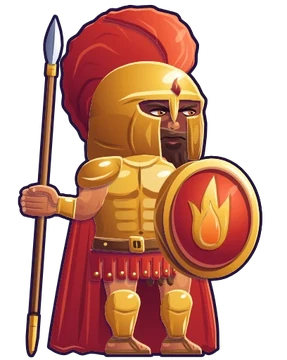
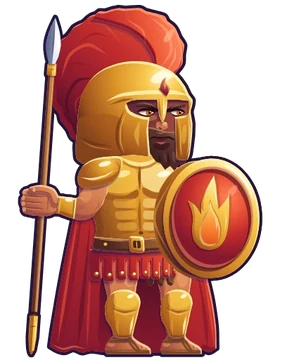
Page de suivi des héros à jour (47 héros, Bérold recentré)
Claude-Session: https://claude.ai/code/session_01StTiAZjvnzYLiVPjaUWZHe

Changed region(s): [[0.1672, 0.0, 0.7247, 0.4889]]

diff --git a/refonte-graphique/ui-moderne/heros/suivi/index.html b/refonte-graphique/ui-moderne/heros/suivi/index.html
@@ -46,11 +46,25 @@ figcaption { font-size: 11px; color: var(--muted); text-transform: uppercase; le
   <p class="note">Dardane, l&#x27;homme-scorpion du désert : capuche de sable à bec, yeux jaunes qui luisent dans l&#x27;ombre, foulard rouge, mantelet déchiqueté bordé de rouge, lance de bronze tenue des deux mains, et sa grande queue de scorpion en anneaux de chitin</p>
 </article>
 <article class="hero ok r-legendary">
+  <header><h3>Rocvar</h3><span class="pill">fait</span></header>
+  <p class="meta">Légendaire · terre</p>
+  <div class="duo"><figure><span class="vide">nouveau</span><figcaption>avant</figcaption></figure>
+  <figure><img src="gif/dragon-terre.gif?v=1795739044" alt="Rocvar animé" loading="lazy"><figcaption>après</figcaption></figure></div>
+  <p class="note">Rocvar, le dragon de la terre (nouveau héros, protecteur) : même famille qu&#x27;Elvyn (même tête de dragon de profil avec un seul œil d&#x27;or placé par visage.py, crinière née du crâne, deux cornes plantées dans la crinière, moustache de dragon, v</p>
+</article>
+<article class="hero ok r-legendary">
   <header><h3>Soyane</h3><span class="pill">fait</span></header>
   <p class="meta">Légendaire · terre</p>
   <div class="duo"><figure><img src="px/myths-10.webp" alt="Soyane pixel art" loading="lazy"><figcaption>avant</figcaption></figure>
   <figure><img src="gif/myths-10.gif?v=1795732681" alt="Soyane animé" loading="lazy"><figcaption>après</figcaption></figure></div>
   <p class="note">Corrigé d&#x27;après le 3e avis du 26/11 (« Rajouter un cache cou comme une ninja ») : 1) un cache-cou de ninja en tissu rouge sombre (mat, différent du haut rouge vif) couvre le nez, la bouche, le menton et tout le cou ; son bord du haut passe </p>
+</article>
+<article class="hero ok r-legendary">
+  <header><h3>Brasyr</h3><span class="pill">fait</span></header>
+  <p class="meta">Légendaire · feu</p>
+  <div class="duo"><figure><span class="vide">nouveau</span><figcaption>avant</figcaption></figure>
+  <figure><img src="gif/dragon-feu.gif?v=1795739051" alt="Brasyr animé" loading="lazy"><figcaption>après</figcaption></figure></div>
+  <p class="note">Repris (avis du chef de projet) : crinière refaite en quelques grandes langues de flamme de tailles différentes, groupées, qui se recourbent vers l&#x27;arrière et vers le haut (plus d&#x27;éventail de pointes égales ni de traits parallèles, reflets </p>
 </article>
 <article class="hero ok r-legendary">
   <header><h3>Kael</h3><span class="pill">fait</span></header>
@@ -94,6 +108,13 @@ figcaption { font-size: 11px; color: var(--muted); text-transform: uppercase; le
   <figure><img src="gif/mages-3.gif?v=1795732703" alt="Orin animé" loading="lazy"><figcaption>après</figcaption></figure></div>
   <p class="note">Orin, le tengu des montagnes : visage rouge au long nez, sourcils blancs en V, crinière blanche couchée en arrière, petit bonnet noir, deux ailes de corbeau repliées comme un manteau, veste ivoire et collier d&#x27;or, ceinture de soie rouge, ha</p>
 </article>
+<article class="hero ok r-legendary">
+  <header><h3>Venthys</h3><span class="pill">fait</span></header>
+  <p class="meta">Légendaire · vent</p>
+  <div class="duo"><figure><span class="vide">nouveau</span><figcaption>avant</figcaption></figure>
+  <figure><img src="gif/dragon-vent.gif?v=1795739075" alt="Venthys animé" loading="lazy"><figcaption>après</figcaption></figure></div>
+  <p class="note">Venthys, le dragon du vent (nom provisoire) : même famille qu&#x27;Elvyn (même tête de dragon vue de profil avec un seul œil, vert d&#x27;or, même crinière qui naît du crâne, ventre et gorge en écailles ivoire, mains et pieds griffus, même échelle), </p>
+</article>
 <article class="hero ok r-epic">
   <header><h3>Malgrave</h3><span class="pill">fait</span></header>
   <p class="meta">Épique · terre</p>
@@ -109,25 +130,11 @@ figcaption { font-size: 11px; color: var(--muted); text-transform: uppercase; le
   <p class="note">Néfira, la reine ailée du Nil, en vectoriel lisse comme Kael (même trait, même échelle) : carré noir, bandeau d&#x27;or et petit cobra, grand collier turquoise et or, robe de lin blanc à ceinture d&#x27;or, sandales d&#x27;or, deux grandes ailes turquoise</p>
 </article>
 <article class="hero ok r-epic">
-  <header><h3>Rocvar</h3><span class="pill">fait</span></header>
-  <p class="meta">Épique · terre</p>
-  <div class="duo"><figure><span class="vide">nouveau</span><figcaption>avant</figcaption></figure>
-  <figure><img src="gif/dragon-terre.gif?v=1795739044" alt="Rocvar animé" loading="lazy"><figcaption>après</figcaption></figure></div>
-  <p class="note">Rocvar, le dragon de la terre (nouveau héros, protecteur) : même famille qu&#x27;Elvyn (même tête de dragon de profil avec un seul œil d&#x27;or placé par visage.py, crinière née du crâne, deux cornes plantées dans la crinière, moustache de dragon, v</p>
-</article>
-<article class="hero ok r-epic">
   <header><h3>Sylvar</h3><span class="pill">fait</span></header>
   <p class="meta">Épique · terre</p>
   <div class="duo"><figure><img src="px/myths-9.webp" alt="Sylvar pixel art" loading="lazy"><figcaption>avant</figcaption></figure>
   <figure><img src="gif/myths-9.gif?v=1795735390" alt="Sylvar animé" loading="lazy"><figcaption>après</figcaption></figure></div>
   <p class="note">Corrigé d&#x27;après le 3e avis du 26/11 (« la main doit tenir l&#x27;arc par l&#x27;arrière ») : le poing qui tient l&#x27;arc passe maintenant DERRIÈRE le bois ; devant l&#x27;arc on ne voit plus que les doigts qui se referment sur la poignée (ils tournent autour</p>
-</article>
-<article class="hero ok r-epic">
-  <header><h3>Brasyr</h3><span class="pill">fait</span></header>
-  <p class="meta">Épique · feu</p>
-  <div class="duo"><figure><span class="vide">nouveau</span><figcaption>avant</figcaption></figure>
-  <figure><img src="gif/dragon-feu.gif?v=1795739051" alt="Brasyr animé" loading="lazy"><figcaption>après</figcaption></figure></div>
-  <p class="note">Repris (avis du chef de projet) : crinière refaite en quelques grandes langues de flamme de tailles différentes, groupées, qui se recourbent vers l&#x27;arrière et vers le haut (plus d&#x27;éventail de pointes égales ni de traits parallèles, reflets </p>
 </article>
 <article class="hero ok r-epic">
   <header><h3>Lenore</h3><span class="pill">fait</span></header>
@@ -191,13 +198,6 @@ figcaption { font-size: 11px; color: var(--muted); text-transform: uppercase; le
   <div class="duo"><figure><img src="px/mages-4.webp" alt="Tessa pixel art" loading="lazy"><figcaption>avant</figcaption></figure>
   <figure><img src="gif/mages-4.gif?v=1795732750" alt="Tessa animé" loading="lazy"><figcaption>après</figcaption></figure></div>
   <p class="note">Tour 2 de l&#x27;avis (26/11 soir, un cercle sans texte sur le haut de l&#x27;aile du fond, contre la tête) : le bord de cette aile faisait des marches et des petits copeaux de plumes, et venait se coller en biais contre le crâne. Il a maintenant un </p>
-</article>
-<article class="hero ok r-epic">
-  <header><h3>Venthys</h3><span class="pill">fait</span></header>
-  <p class="meta">Épique · vent</p>
-  <div class="duo"><figure><span class="vide">nouveau</span><figcaption>avant</figcaption></figure>
-  <figure><img src="gif/dragon-vent.gif?v=1795739075" alt="Venthys animé" loading="lazy"><figcaption>après</figcaption></figure></div>
-  <p class="note">Venthys, le dragon du vent (nom provisoire) : même famille qu&#x27;Elvyn (même tête de dragon vue de profil avec un seul œil, vert d&#x27;or, même crinière qui naît du crâne, ventre et gorge en écailles ivoire, mains et pieds griffus, même échelle), </p>
 </article>
 <article class="hero ok r-rare">
   <header><h3>Nyrra</h3><span class="pill">fait</span></header>
@@ -315,8 +315,8 @@ figcaption { font-size: 11px; color: var(--muted); text-transform: uppercase; le
   <header><h3>Bérold</h3><span class="pill">fait</span></header>
   <p class="meta">Commun · feu</p>
   <div class="duo"><figure><img src="px/knights-1.webp" alt="Bérold pixel art" loading="lazy"><figcaption>avant</figcaption></figure>
-  <figure><img src="gif/knights-1.gif?v=1795732808" alt="Bérold animé" loading="lazy"><figcaption>après</figcaption></figure></div>
-  <p class="note">Tour 2 de l&#x27;avis (26/11 soir), corrigé point par point : - flamme du bouclier redessinée : une seule flamme d&#x27;or à trois pointes recourbées (la grande au milieu), avec une petite flamme orange au cœur (plus de fente rouge ni de boule) ; - r</p>
+  <figure><img src="gif/knights-1.gif?v=1795804819" alt="Bérold animé" loading="lazy"><figcaption>après</figcaption></figure></div>
+  <p class="note">Avis du 27/11, corrigé : - tête recentrée : le casque, le visage, la barbe et le cimier ont glissé ensemble de 4 pixels du dessin vers la gauche, d&#x27;un seul bloc ; le casque est maintenant posé au milieu, entre les deux épaules, dans l&#x27;axe d</p>
 </article>
 <article class="hero ok r-common">
   <header><h3>Garvin</h3><span class="pill">fait</span></header>

diff --git a/refonte-graphique/ui-moderne/heros/suivi.py b/refonte-graphique/ui-moderne/heros/suivi.py
@@ -42,11 +42,7 @@ def heros():
 
 
 # Nouveaux héros dessinés en vectoriel, pas encore dans les données du jeu (demande du 27/11 : 3 dragons).
-NOUVEAUX = [
-    {'id': 'dragon-feu', 'name': 'Brasyr', 'r': 'epic', 'el': 'fire', 'art': 'dragon-feu'},
-    {'id': 'dragon-terre', 'name': 'Rocvar', 'r': 'epic', 'el': 'earth', 'art': 'dragon-terre'},
-    {'id': 'dragon-vent', 'name': 'Venthys', 'r': 'epic', 'el': 'wind', 'art': 'dragon-vent'},
-]
+NOUVEAUX = []  # les 3 dragons sont dans les données du jeu depuis le 27/11
 
 
 def vignette(src, dst, h):
@@ -77,8 +73,8 @@ def main():
         elif os.path.isdir(os.path.join(HEROS, s)):
             statut = 'en cours'
         px = os.path.join(RACINE, 'public', 'art', 'hd', 'pose', f"{h['art']}.webp")
-        h['px'] = os.path.exists(px)
-        if h['px']:
+        h['px'] = os.path.exists(px) or os.path.exists(os.path.join(PAGE, 'px', f"{h['id']}.webp"))
+        if os.path.exists(px):  # le pixel art est supprimé depuis la v0.65.0 : on garde les vignettes déjà faites
             vignette(px, os.path.join(PAGE, 'px', f"{h['id']}.webp"), 360)
         vx = os.path.join(RACINE, 'public', 'art', 'vecto', f"{h['art']}.webp")
         has_vx = statut in ('fait', 'à revoir') and os.path.exists(vx)
